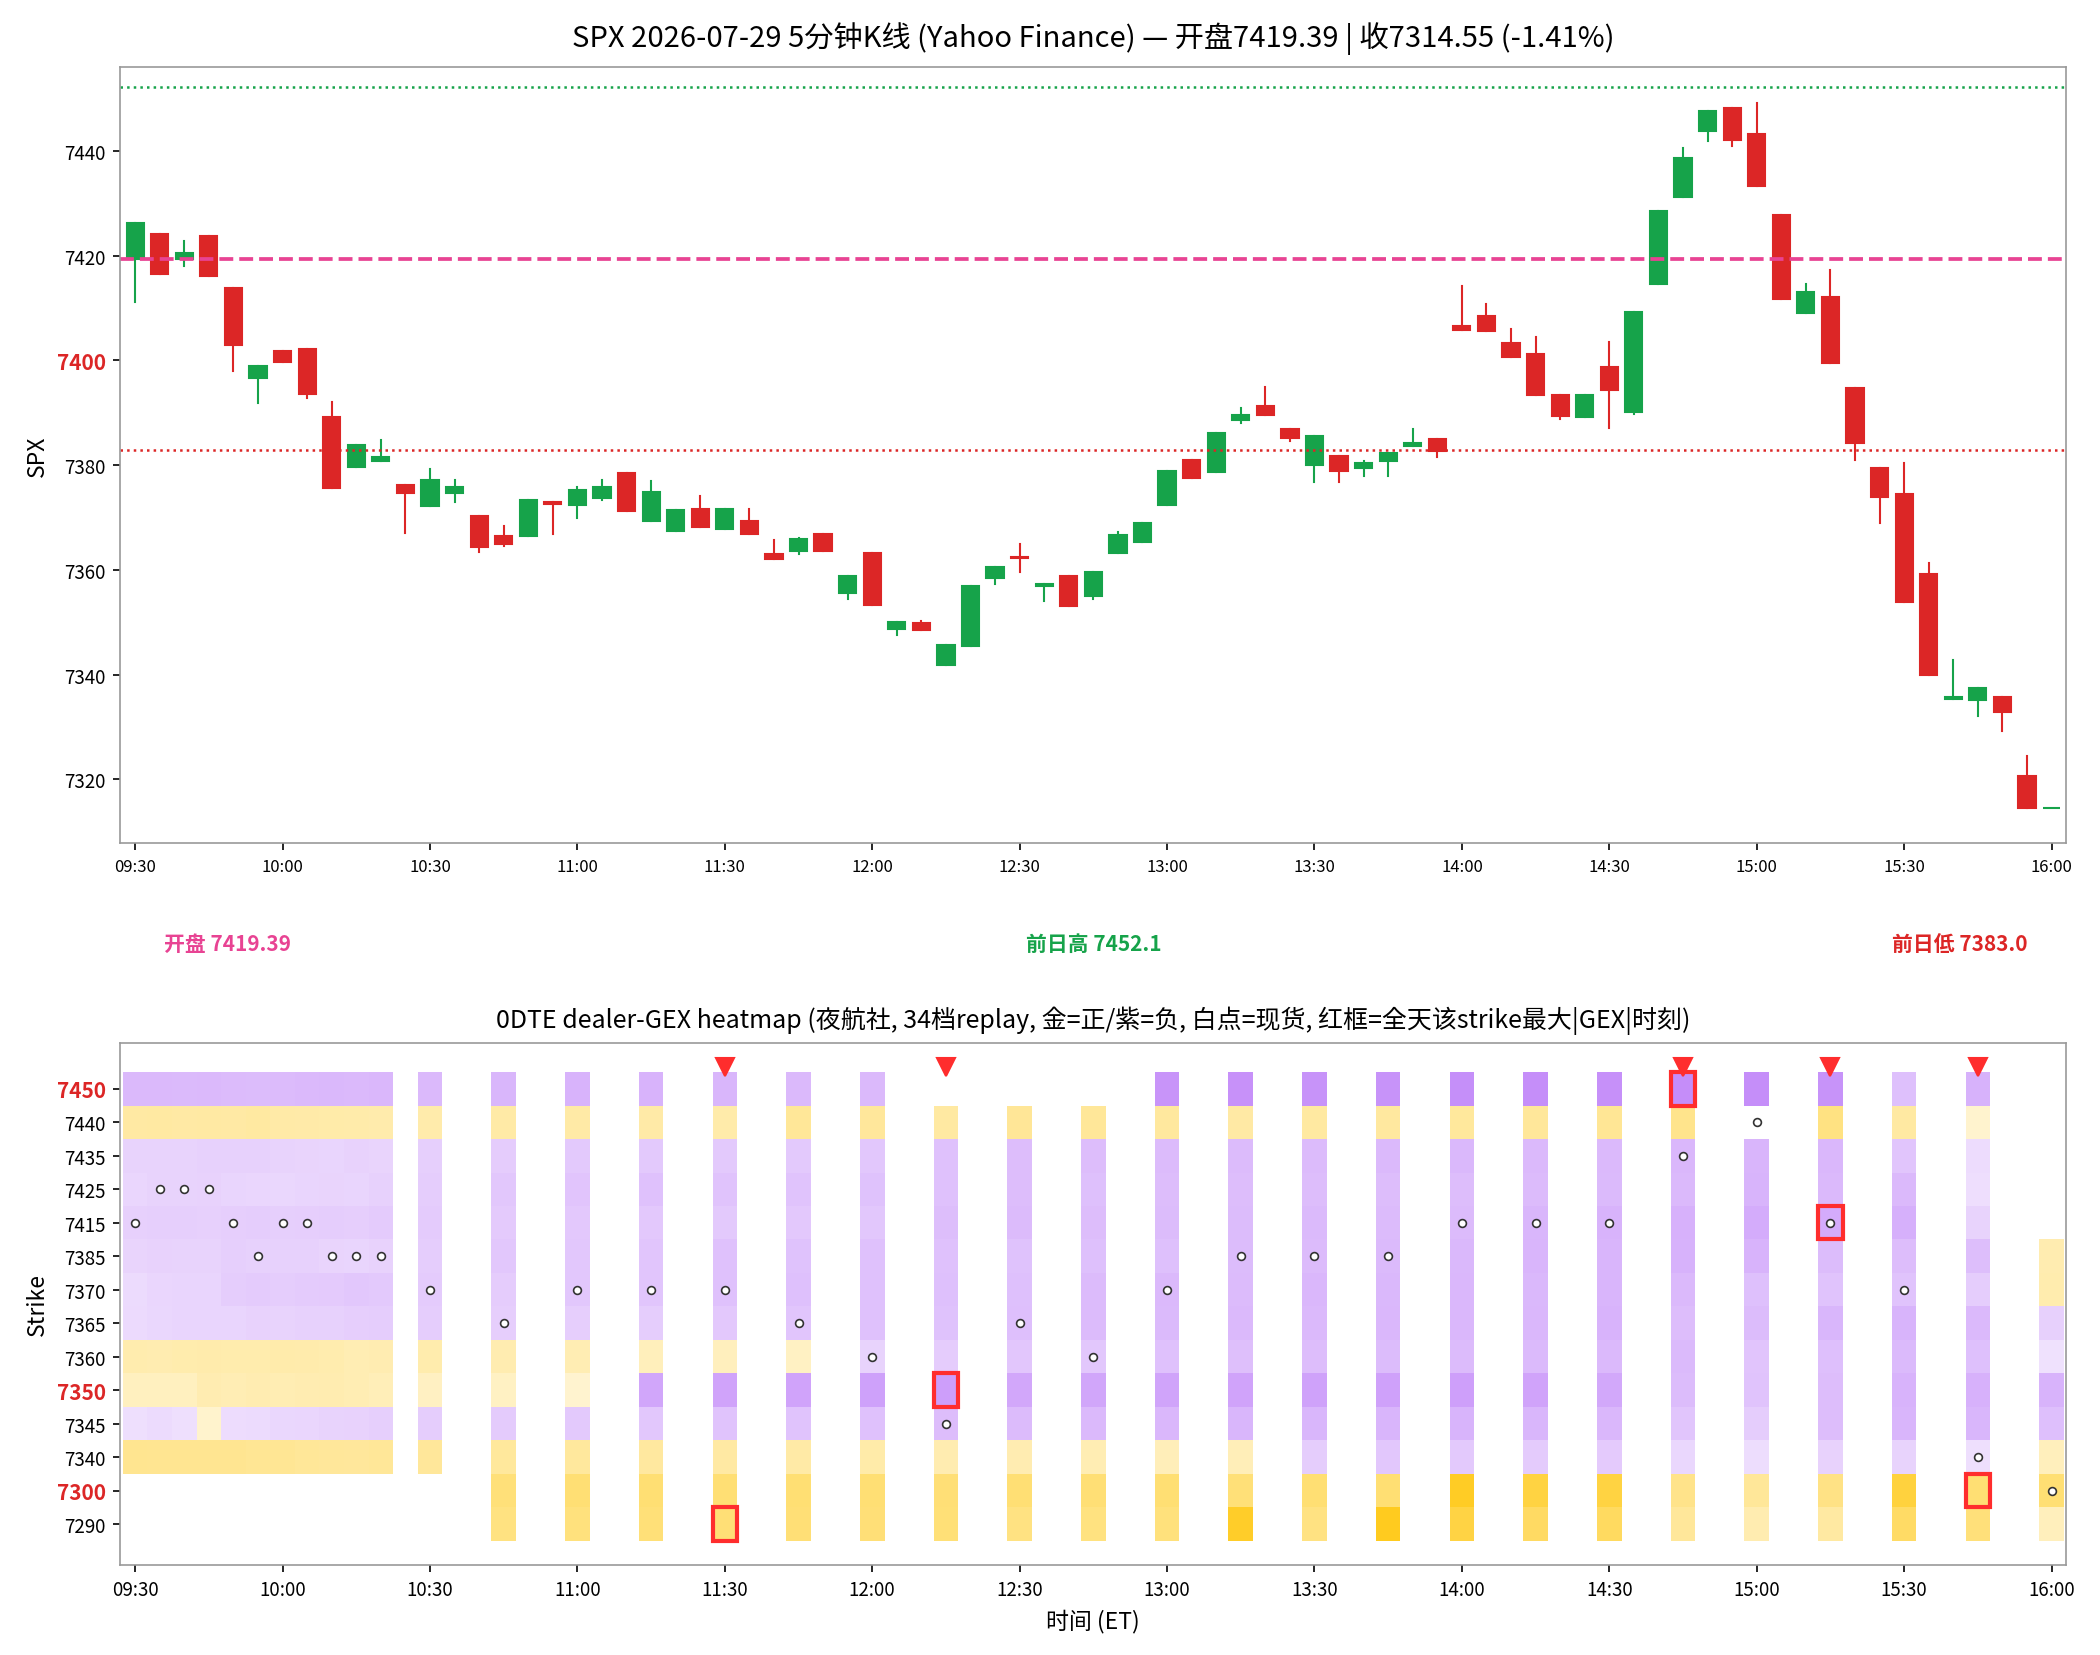
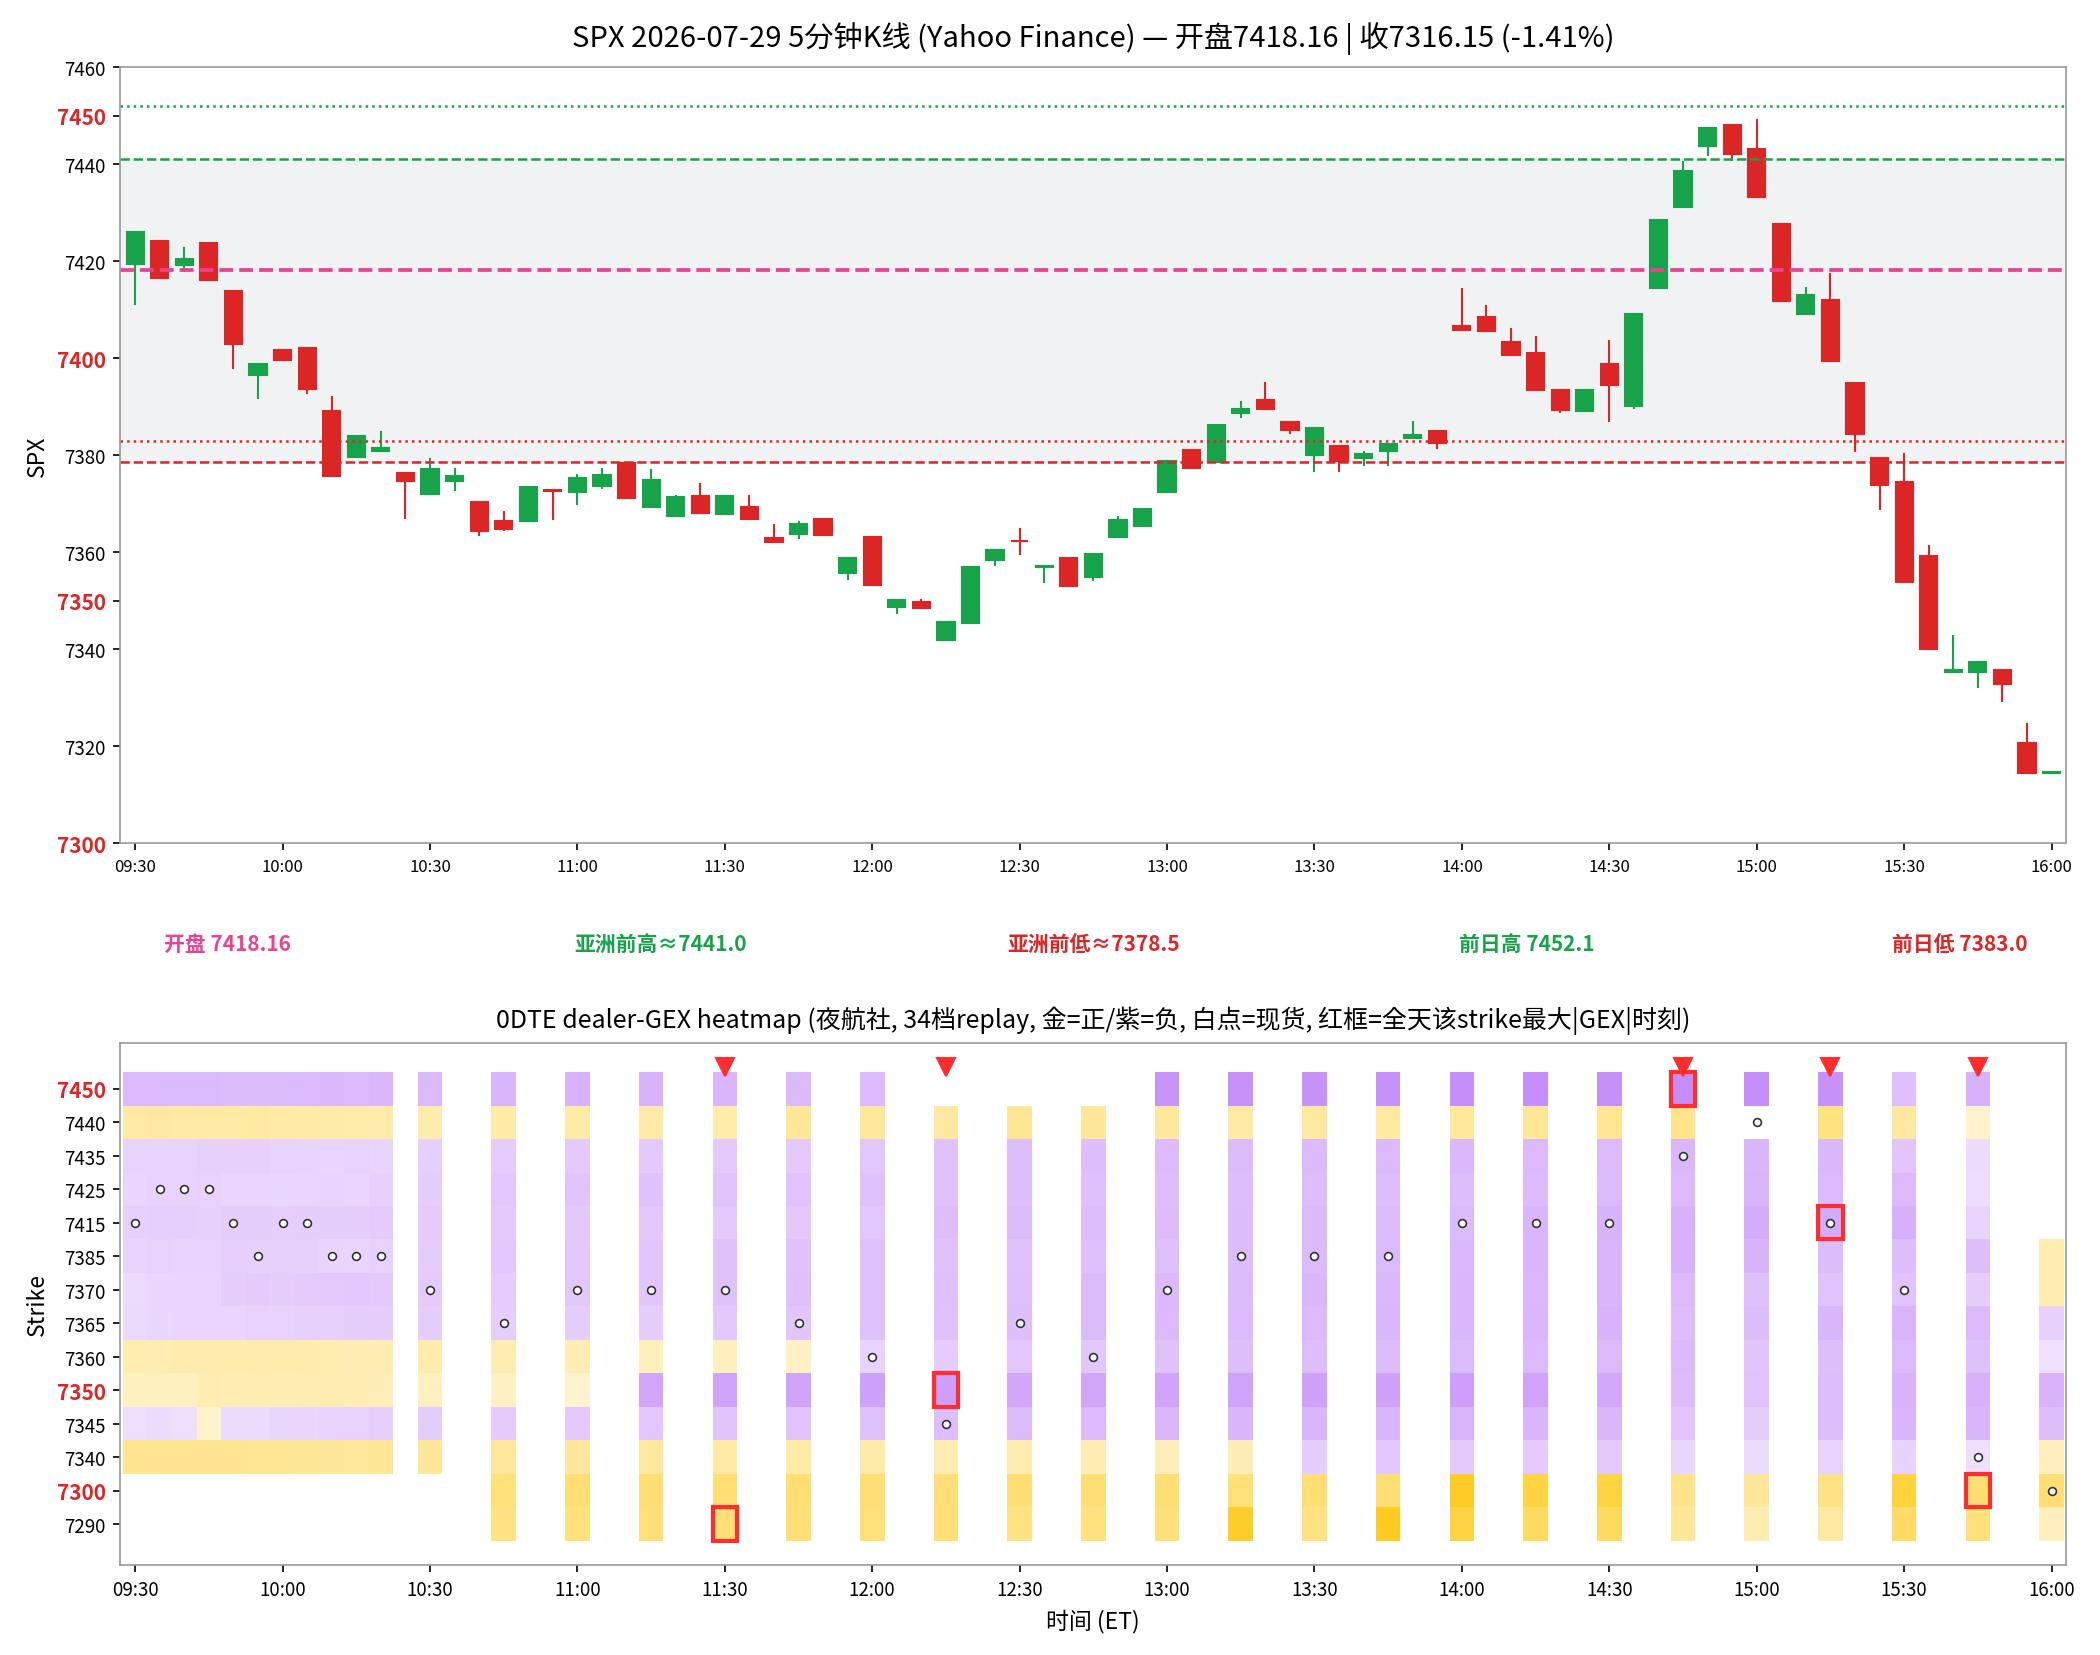
SPX日内补10/01-10/09

diff --git a/spx-intraday/index.html b/spx-intraday/index.html
@@ -4,7 +4,7 @@
 <meta charset="utf-8">
 <meta name="viewport" content="width=device-width,initial-scale=1">
 <meta name="robots" content="noindex,nofollow">
-<title>SPX 日内（按日期）</title>
+<title>SPX 日内报告（按日期）</title>
 <style>
 
 :root{color-scheme:light dark;--bg:#eef1f3;--paper:#fff;--ink:#12171d;--muted:#58636e;--line:#cfd6dc;--gold:#a97600;--purple:#7750a2;--gold-soft:#fff0bb;--purple-soft:#eee3fa;--orange:#e94b25;--green:#087a4e;--red:#c5323b;--chip:#e7ebee;--chart:#0d1117;--shadow:0 16px 54px rgba(10,18,25,.09)}
@@ -38,7 +38,7 @@
 <main>
 
 <nav class="sitenav"><a href="../index.html">首页</a><a href="../spx-intraday/index.html" class="on">SPX 日内报告</a><a href="../spx-10min/index.html">SPX 尾盘10分钟</a><a href="../mu/index.html">MU 日内报告</a><a href="../tsla/index.html">TSLA 日内报告</a><a href="../meta/index.html">META 日内报告</a></nav>
-<h1 style="margin:0 0 4px">SPX 日内</h1>
+<h1 style="margin:0 0 4px">SPX 日内报告</h1>
 <p class="data-note">历史数据库：每日收盘后追加当日报告，历史日期永久保留。</p>
 <nav class="day-tabs" role="tablist" aria-label="日期">
 <a class="day-tab" role="tab" data-target="day-1016" aria-selected="true" href="#day-1016">10/16 周五 <span class="tab-event">OPEX</span> <span class="tab-move down">125.07</span></a>
@@ -60,7 +60,7 @@
 <a class="day-tab" role="tab" data-target="day-0924" aria-selected="false" href="#day-0924">9/24 周四 <span class="tab-move down">56.44</span></a>
 <a class="day-tab" role="tab" data-target="day-0923" aria-selected="false" href="#day-0923">9/23 周三 <span class="tab-move down">67.05</span></a>
 <a class="day-tab" role="tab" data-target="day-0916" aria-selected="false" href="#day-0916">9/16 周三 <span class="tab-event">FOMC</span> <span class="tab-move down">119.02</span></a>
-<a class="day-tab" role="tab" data-target="day-0729" aria-selected="false" href="#day-0729">7/29 周三 <span class="tab-event">FOMC</span> <span class="tab-move down">134.66</span></a>
+<a class="day-tab" role="tab" data-target="day-0729" aria-selected="false" href="#day-0729">7/29 周三 <span class="tab-event">FOMC</span> <span class="tab-move down">136.92</span></a>
 </nav>
 <article class="day-panel" id="day-1016" role="tabpanel">
 <header class="mast"><div>
@@ -1912,9 +1912,28 @@
 </div></aside>
 <section aria-label="早盘分析">
 <div class="section-head"><h2>早盘分析</h2><div class="source">
-<p>（Junk-man 早盘简报未抓取到，留空待补）</p>
+<p>2026-09-16 07:22 MDT｜Alpha夜航社 #junkman-analysis｜作者 junk_man（APP徽章）</p>
 </div></div>
-<div class="brief"><p>（待补充 Junk-man 当日 #junkman-analysis 原文）</p></div>
+<div class="brief"><pre class="verbatim">
+⚡ SPXW
+💵 SPY 推算开盘参考（非现金现价） 7,605.43｜🔴 负 GEX｜放大/加速
+🎯 交易区间 7,600–7,650｜上墙延伸 7,650–7,660
+🛟 潜在低点观察区 7,600–7,605（非最低价预测）；若失守 7,600，取消本轮接底，等重新收复 7,605 并回踩。
+
+🔴 7,650 CALL WALL 下方｜🟣 7,615 MAGNET 下方
+🟢 7,600 PUT WALL 上方｜🔵 7,612.9 FLIP 下方
+
+🧭 开盘分支｜若开在 7,605 下方：反抽不过，先看 7,600；7,610 上方：回踩守住，先看 7,612.9；两者之间或贴近边界，等待确认。
+⏩ 若开盘或确认前已到首目标，跳过旧首段，不改追第二目标；等待新的独立回踩机会。
+
+🎯 交易机会
+• 📈 回踩 Call：收复 7,610、回踩守住 → 7,612.9 → 7,615；失守 7,610 取消。
+• 🚀 突破 Call：站稳 7,650、回踩有效 → 7,655 → 7,660；跌破回踩低点退出。7,660 再站稳，才看 7,665 → 7,670。
+• 📉 受阻 Put：7,610 受阻，再失守 7,605 → 7,600 → 7,595；站稳 7,610 取消。
+• 🔻 破位 Put：跌破 7,605、反抽不过 → 7,600 → 7,595；收回 7,605 取消。
+• 🛟 抄底 Call：下探 7,600–7,605 后重新收复 7,605、回踩守住 → 7,610 → 7,612.9；再破回踩低点退出，不接持续下跌。
+</pre></div>
+<p class="data-note">盘前预测 · 情况未发生</p>
 </section>
 <section aria-label="K线与heatmap">
 <div class="section-head"><h2>5 分钟 K 线 × 0DTE heatmap</h2><div class="source">
@@ -1981,8 +2000,8 @@
 <h1>SPX 日内报告</h1>
 <p class="date">2026年7月29日 · 周三 · 日内报告</p>
 </div><div class="tape">
-<strong>7,314.55 <span class="down">-1.41%</span></strong>
-<span>开 7,419.39 · 高 7,449.21 · 低 7,314.55</span>
+<strong>7,316.15 <span class="down">-1.41%</span></strong>
+<span>开 7,418.16 · 高 7,450.84 · 低 7,313.92</span>
 </div></header>
 <aside class="event">
 <div class="event-tag">FOMC <span class="event-bias down">· 利空</span></div>

diff --git a/spx-intraday/2026-09-16.html b/spx-intraday/2026-09-16.html
@@ -54,9 +54,28 @@
 </div></aside>
 <section aria-label="早盘分析">
 <div class="section-head"><h2>早盘分析</h2><div class="source">
-<p>（Junk-man 早盘简报未抓取到，留空待补）</p>
+<p>2026-09-16 07:22 MDT｜Alpha夜航社 #junkman-analysis｜作者 junk_man（APP徽章）</p>
 </div></div>
-<div class="brief"><p>（待补充 Junk-man 当日 #junkman-analysis 原文）</p></div>
+<div class="brief"><pre class="verbatim">
+⚡ SPXW
+💵 SPY 推算开盘参考（非现金现价） 7,605.43｜🔴 负 GEX｜放大/加速
+🎯 交易区间 7,600–7,650｜上墙延伸 7,650–7,660
+🛟 潜在低点观察区 7,600–7,605（非最低价预测）；若失守 7,600，取消本轮接底，等重新收复 7,605 并回踩。
+
+🔴 7,650 CALL WALL 下方｜🟣 7,615 MAGNET 下方
+🟢 7,600 PUT WALL 上方｜🔵 7,612.9 FLIP 下方
+
+🧭 开盘分支｜若开在 7,605 下方：反抽不过，先看 7,600；7,610 上方：回踩守住，先看 7,612.9；两者之间或贴近边界，等待确认。
+⏩ 若开盘或确认前已到首目标，跳过旧首段，不改追第二目标；等待新的独立回踩机会。
+
+🎯 交易机会
+• 📈 回踩 Call：收复 7,610、回踩守住 → 7,612.9 → 7,615；失守 7,610 取消。
+• 🚀 突破 Call：站稳 7,650、回踩有效 → 7,655 → 7,660；跌破回踩低点退出。7,660 再站稳，才看 7,665 → 7,670。
+• 📉 受阻 Put：7,610 受阻，再失守 7,605 → 7,600 → 7,595；站稳 7,610 取消。
+• 🔻 破位 Put：跌破 7,605、反抽不过 → 7,600 → 7,595；收回 7,605 取消。
+• 🛟 抄底 Call：下探 7,600–7,605 后重新收复 7,605、回踩守住 → 7,610 → 7,612.9；再破回踩低点退出，不接持续下跌。
+</pre></div>
+<p class="data-note">盘前预测 · 情况未发生</p>
 </section>
 <section aria-label="K线与heatmap">
 <div class="section-head"><h2>5 分钟 K 线 × 0DTE heatmap</h2><div class="source">

diff --git a/spx-intraday/2026-07-29.html b/spx-intraday/2026-07-29.html
@@ -44,8 +44,8 @@
 <h1>SPX 日内报告</h1>
 <p class="date">2026年7月29日 · 周三 · 日内报告</p>
 </div><div class="tape">
-<strong>7,314.55 <span class="down">-1.41%</span></strong>
-<span>开 7,419.39 · 高 7,449.21 · 低 7,314.55</span>
+<strong>7,316.15 <span class="down">-1.41%</span></strong>
+<span>开 7,418.16 · 高 7,450.84 · 低 7,313.92</span>
 </div></header>
 <aside class="event">
 <div class="event-tag">FOMC <span class="event-bias down">· 利空</span></div>
